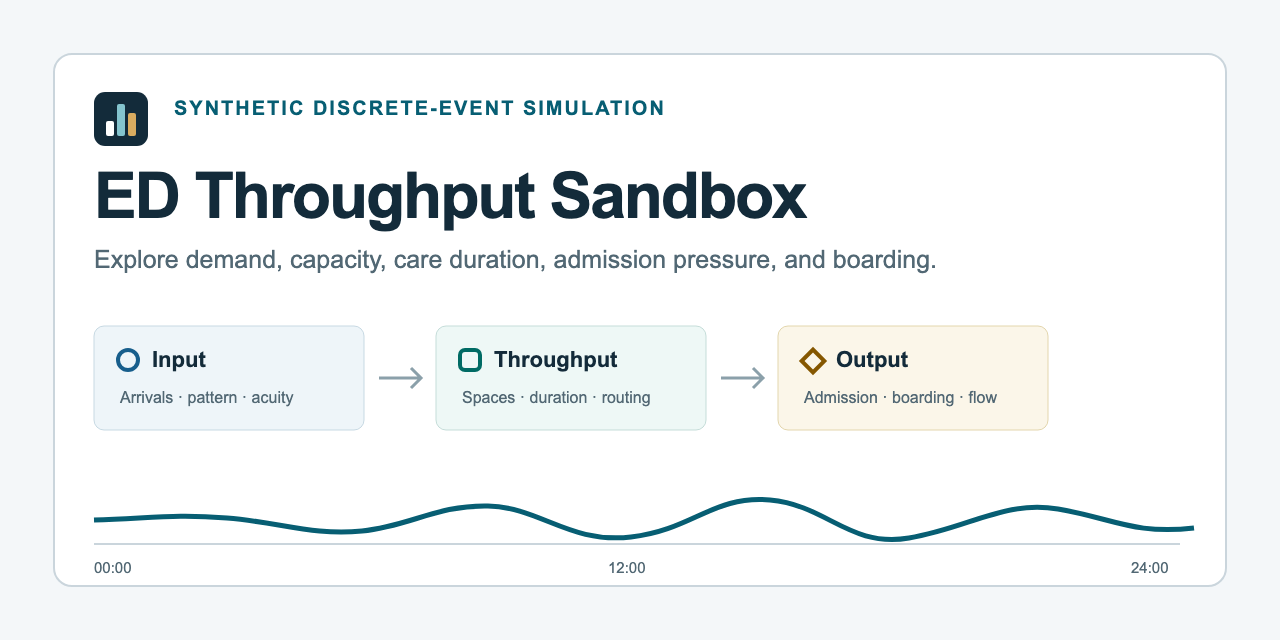
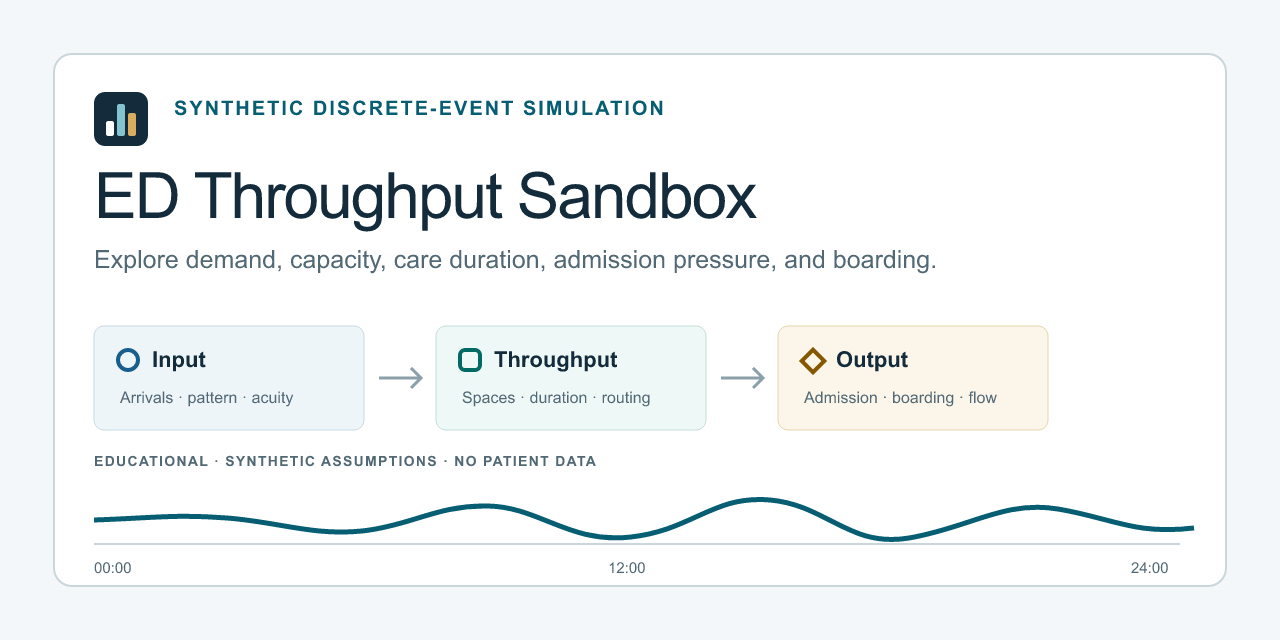
docs: prepare v1.0.0 public launch

diff --git a/docs/PORTFOLIO.md b/docs/PORTFOLIO.md
@@ -1,35 +1,35 @@
 # Portfolio language
 
-All descriptions below are intentionally bounded. Attribution is resolved to Alexander Krawec; do not add claims of hospital adoption, patient impact, empirical forecasting accuracy, or measured operational improvement unless separately documented with evidence.
+All descriptions below are intentionally bounded. Each independently distinguishes Alexander Krawec's product conception and design, his simulation-model design, and the AI-assisted software implementation he directed and reviewed. Do not add claims of hospital adoption, patient impact, empirical forecasting accuracy, or measured operational improvement unless separately documented with evidence.
 
 ## 150-character description
 
-Built a browser-based, seeded simulation for exploring synthetic emergency-department flow, capacity, boarding, and scenario tradeoffs.
+Conceived and model-designed a synthetic ED flow sandbox; directed AI-assisted implementation. No institutional validation or measured impact.
 
 ## 300-character description
 
-Designed and built ED Throughput Sandbox, a browser-based discrete-event simulation that lets users test synthetic ED demand, treatment-capacity, admission, boarding, and fast-track assumptions, compare seeded scenarios, and inspect uncertainty—without patient data or a backend.
+I conceived and designed ED Throughput Sandbox and its synthetic discrete-event model, then directed and reviewed AI-assisted software implementation. It uses no patient data and has no institutional validation or measured patient or operational impact.
 
 ## ERAS-style description (maximum 750 characters)
 
-I designed and built ED Throughput Sandbox, an open-source educational web app for exploring emergency-department flow as a systems problem. I translated the input–throughput–output framework into a transparent client-side discrete-event simulation with seeded Poisson arrivals, acuity-priority queues, constrained spaces, lognormal treatment and boarding durations, Monte Carlo uncertainty, paired comparison, and sensitivity analysis. I added deterministic fixtures, resource and chronology invariants, responsive-browser and accessibility tests, source/model documentation, and a static deployment workflow. It uses synthetic assumptions and is not a validated forecast, staffing tool, or substitute for institution-specific analysis.
+I conceived and designed ED Throughput Sandbox, an open-source educational app for exploring emergency-department flow as a systems problem. I designed its discrete-event model: synthetic time-varying arrivals, acuity-priority queues, finite treatment spaces, composite treatment and boarding durations, Monte Carlo uncertainty, paired scenario comparison, and sensitivity analysis. I directed and reviewed the AI-assisted React/TypeScript implementation, deterministic and invariant tests, documentation, and static deployment. The model uses no patient data, has not been calibrated or institutionally validated, and has no measured patient or operational impact; it is not a forecast, staffing tool, or clinical decision aid.
 
 ## CV résumé bullets
 
-- Designed and implemented an open-source React/TypeScript discrete-event simulation for exploring synthetic emergency-department demand, capacity, treatment duration, admission pressure, boarding, and fast-track scenarios.
-- Built a reproducible Monte Carlo/paired-comparison workflow with versioned random streams, Web Worker execution, invariant and browser tests, accessible visualizations, validated import/export, and transparent model/source documentation.
+- Conceived and designed ED Throughput Sandbox, an open-source educational product and discrete-event model for exploring synthetic ED demand, acuity-priority queueing, finite treatment spaces, admission, boarding, and fast-track tradeoffs.
+- Directed and reviewed AI-assisted React/TypeScript implementation of seeded Monte Carlo and paired-scenario analysis, with Web Worker execution, deterministic/invariant/browser tests, validated import/export, and source/model documentation; no institutional validation or measured patient impact is claimed.
 
 ## LinkedIn / GitHub launch paragraph
 
-I built ED Throughput Sandbox, an open-source browser application for exploring how emergency-department demand, treatment capacity, care duration, admission pressure, and boarding can interact in a simplified operational model. It runs seeded discrete-event simulations entirely in the browser, reports uncertainty across repeated runs, supports paired scenario comparison and sensitivity analysis, and documents its event logic and evidence boundaries. It uses synthetic assumptions and no patient data; it is an educational systems-thinking project, not a hospital forecast or staffing recommendation tool.
+I conceived ED Throughput Sandbox and designed both the product and its synthetic discrete-event model for exploring how emergency-department demand, treatment capacity, care duration, admission pressure, and boarding can interact. I directed and reviewed AI-assisted software implementation, testing, documentation, and deployment. It runs entirely in the browser, reports simulation variation across seeded replications, and supports paired scenario comparison and sensitivity analysis. It uses no patient data, has no institutional validation or measured patient impact, and is an educational systems-thinking project—not a hospital forecast or staffing recommendation tool.
 
 ## 30-second interview explanation
 
-ED Throughput Sandbox is a browser-based discrete-event simulation I built to make emergency-department crowding easier to reason about as a system. Users change synthetic arrivals, acuity, treatment spaces, durations, admission, and boarding, then compare repeated seeded simulations with uncertainty. The key lesson is that input, throughput, and output constraints interact. I was careful to document that the model is educational, simplified, and not calibrated to a real hospital.
+I conceived ED Throughput Sandbox and designed both the product and its simplified discrete-event model to make ED flow tradeoffs easier to examine. Users vary synthetic arrivals, acuity, treatment-space capacity, admission, boarding, and fast-track assumptions, then compare seeded Monte Carlo runs with uncertainty. I directed and reviewed AI-assisted implementation and testing. It uses no patient data, has no institutional validation or measured patient impact, and is a learning and hypothesis-generation tool—not a forecast or staffing recommendation.
 
 ## 90-second interview explanation
 
-I wanted a concrete way to connect my interest in emergency care with systems thinking, so I built ED Throughput Sandbox. The model treats patient flow as discrete events: synthetic patients arrive according to an hourly Poisson process, join a strict acuity-priority/FIFO queue, occupy an eligible treatment space for a skewed duration, and either depart or continue occupying that same space while boarding. A 24-hour warm-up reduces empty-system initialization bias, and the next 24 hours are repeated with deterministic child seeds so the app can report median results and uncertainty. Scenario A and B share random streams where practical, which makes operational deltas less noisy. I separated the simulation engine from React, moved Monte Carlo work into a Web Worker, added invariant and deterministic tests, and documented every consequential assumption and source boundary. The honest limitation is equally important: it omits many real resources and feedback loops and has no institution-specific validation, so it supports learning and hypothesis generation—not operational decisions.
+I conceived ED Throughput Sandbox to connect my interest in emergency care with systems and operations-research thinking. I designed both the product experience and the simplified discrete-event model. Synthetic patients arrive through a time-varying Poisson process, join strict acuity-priority/FIFO queues, occupy a finite treatment space for a skewed composite duration, and either depart or keep that same space while boarding. The app runs a 24-hour warm-up and then repeats a 24-hour analysis window with deterministic child seeds, reporting replication-level medians and 10th–90th percentile simulation intervals. When demand assumptions match, paired A/B runs use common random numbers to reduce comparison noise, while one-at-a-time sensitivity analysis shows how selected outputs respond to one parameter. I directed and reviewed AI-assisted React/TypeScript implementation, testing, documentation, and deployment, and I can explain the event order, resource invariants, metric cohorts, and limitations. The model uses synthetic assumptions and no patient data. It omits many real ED resources and feedback loops, has not been calibrated or validated to an institution, and has measured no patient or operational impact. It supports learning and hypothesis generation—not forecasting, staffing, or clinical decisions.
 
 ## Likely technical interview questions
 

diff --git a/README.md b/README.md
@@ -1,28 +1,25 @@
 # ED Throughput Sandbox
 
-> An interactive, browser-based discrete-event simulation for exploring emergency-department flow, capacity, and boarding scenarios.
+An interactive, browser-based discrete-event simulation for exploring how synthetic emergency-department demand, treatment-space capacity, admission, and boarding assumptions interact.
 
-[Live demo](https://ALEXKDOT.github.io/ed-throughput-sandbox/) · [Model specification](./docs/MODEL.md) · [Validation plan](./docs/VALIDATION.md) · [Owner guide](./docs/OWNER_GUIDE.md)
+**[Open the live demo](https://alexkdot.github.io/ed-throughput-sandbox/)** · [Model specification](./docs/MODEL.md) · [Evidence and limitations](./docs/QA.md)
 
-[![CI](https://github.com/ALEXKDOT/ed-throughput-sandbox/actions/workflows/ci.yml/badge.svg)](https://github.com/ALEXKDOT/ed-throughput-sandbox/actions/workflows/ci.yml)
-[![Deploy GitHub Pages](https://github.com/ALEXKDOT/ed-throughput-sandbox/actions/workflows/deploy-pages.yml/badge.svg)](https://github.com/ALEXKDOT/ed-throughput-sandbox/actions/workflows/deploy-pages.yml)
+- Configure synthetic arrivals, acuity, treatment spaces, care duration, admission, boarding, and low-acuity fast-track assumptions.
+- Run seeded Monte Carlo replications and inspect medians with 10th–90th percentile simulation intervals.
+- Compare paired A/B scenarios, explore one-at-a-time sensitivity, and share or export assumptions and results.
 
-![ED Throughput Sandbox showing synthetic assumptions and simulation results](./public/screenshots/app-desktop.png)
+> **Synthetic-model disclaimer:** This educational systems-modeling project uses illustrative synthetic assumptions and no patient data. It has not been calibrated or validated to any institution, has measured no patient or operational impact, and must not be used for clinical, staffing, regulatory, or operational decisions.
 
-ED Throughput Sandbox is a static, client-side educational application for testing operational hypotheses in a simplified emergency-department flow model. Users can change synthetic demand, acuity, capacity, treatment duration, admission, boarding, and fast-track assumptions; run repeated seeded simulations; and compare scenarios with uncertainty. No patient data, backend, accounts, telemetry, or institution-specific calibration are used.
+![Current ED Throughput Sandbox desktop interface showing synthetic assumptions and simulation results](./public/screenshots/app-desktop.png)
 
-## What it can do
+ED Throughput Sandbox is a static, client-side application: the model runs in a Web Worker, and no backend, account, database, telemetry, or runtime API key is involved.
 
-- Organize assumptions around the **input–throughput–output** framework for ED crowding.
-- Run a stochastic, event-driven simulation in a Web Worker with a 24-hour warm-up and 24-hour analysis period.
-- Repeat 20–200 deterministic-seed replications and report medians with 10th–90th percentile intervals.
-- Preserve treatment-space occupancy while admitted synthetic patients are boarding.
-- Compare Scenario A and B with common random numbers and within-replication deltas.
-- Model an optional low-acuity fast track whose spaces are reallocated from total ED capacity.
-- Save assumptions locally, encode both scenarios in a shareable URL, and import/export validated JSON.
-- Export summary and time-series results as CSV and print a report view.
-- Sweep one parameter across up to seven distinct valid values in a one-at-a-time sensitivity explorer.
-- Explain every major assumption, event rule, distribution, source boundary, and limitation.
+## Product, model, and implementation ownership
+
+- **Product conception and design:** Alexander Krawec defined the use case, interaction model, scope, and evidence boundaries.
+- **Simulation-model design:** Alexander translated the input–throughput–output framework into the documented event logic, synthetic assumptions, metrics, and comparison approach.
+- **AI-assisted software implementation:** The React/TypeScript implementation, testing, documentation, and release work used AI coding assistance under Alexander's direction and review.
+- **Evidence status:** Software verification establishes implementation conformance only. The project has no institutional calibration or validation and no measured patient or operational impact.
 
 ## Model at a glance
 
@@ -49,6 +46,7 @@ The development server prints the local URL. All simulation work occurs in the b
 
 | Command                 | Purpose                                                           |
 | ----------------------- | ----------------------------------------------------------------- |
+| `npm run assets:social` | Regenerate the 1,280 × 640 social-preview PNG from its SVG source |
 | `npm run dev`           | Start the Vite development server                                 |
 | `npm run build`         | Type-check and create the production bundle                       |
 | `npm run preview`       | Preview the production bundle locally                             |
@@ -71,6 +69,9 @@ npm run test:e2e:install
 The committed suite covers exact PRNG and duration-transform vectors, zero-arrival and known-event fixtures, resource limits, fast-track eligibility, strict priority/FIFO behavior, boarding occupancy, warm-up boundaries, same-seed reproducibility, paired comparisons, hostile imports, portability, CSV safety, property-generated capacities, and responsive workflows.
 
 Passing software tests establishes implementation conformance—not empirical validity. The model has not been calibrated or validated against a real ED. See [docs/VALIDATION.md](./docs/VALIDATION.md) for release gates and [docs/QA.md](./docs/QA.md) for actual commands and results from the latest audited build.
+
+[![CI](https://github.com/ALEXKDOT/ed-throughput-sandbox/actions/workflows/ci.yml/badge.svg)](https://github.com/ALEXKDOT/ed-throughput-sandbox/actions/workflows/ci.yml)
+[![Deploy GitHub Pages](https://github.com/ALEXKDOT/ed-throughput-sandbox/actions/workflows/deploy-pages.yml/badge.svg)](https://github.com/ALEXKDOT/ed-throughput-sandbox/actions/workflows/deploy-pages.yml)
 
 ## Deployment
 
@@ -112,12 +113,12 @@ The conceptual model and simulation approach draw on peer-reviewed literature in
 
 The app uses no patient data, cookies, analytics, advertising, accounts, backend, or database. Imported JSON is size-limited and reconstructed field-by-field; unknown content is never merged into application objects or rendered as HTML. Scenario names are formula-escaped in CSV exports. See [SECURITY.md](./SECURITY.md) for reporting guidance.
 
-## Attribution
+## Citation
 
-Created by Alexander Krawec and published at [ALEXKDOT/ed-throughput-sandbox](https://github.com/ALEXKDOT/ed-throughput-sandbox). Machine-readable citation metadata is available in [CITATION.cff](./CITATION.cff).
+Published by Alexander Krawec at [ALEXKDOT/ed-throughput-sandbox](https://github.com/ALEXKDOT/ed-throughput-sandbox). Machine-readable citation metadata is available in [CITATION.cff](./CITATION.cff).
 
 ## License and disclaimer
 
 MIT licensed; see [LICENSE](./LICENSE).
 
-> This application is an educational systems-modeling project. It uses synthetic inputs and simplified assumptions, is not calibrated to any institution, and should not be used for staffing, clinical, regulatory, or operational decisions.
+> This application is an educational systems-modeling project. It uses synthetic inputs and simplified assumptions, has not been calibrated or validated to any institution, and has measured no patient or operational impact. It should not be used for staffing, clinical, regulatory, or operational decisions.
